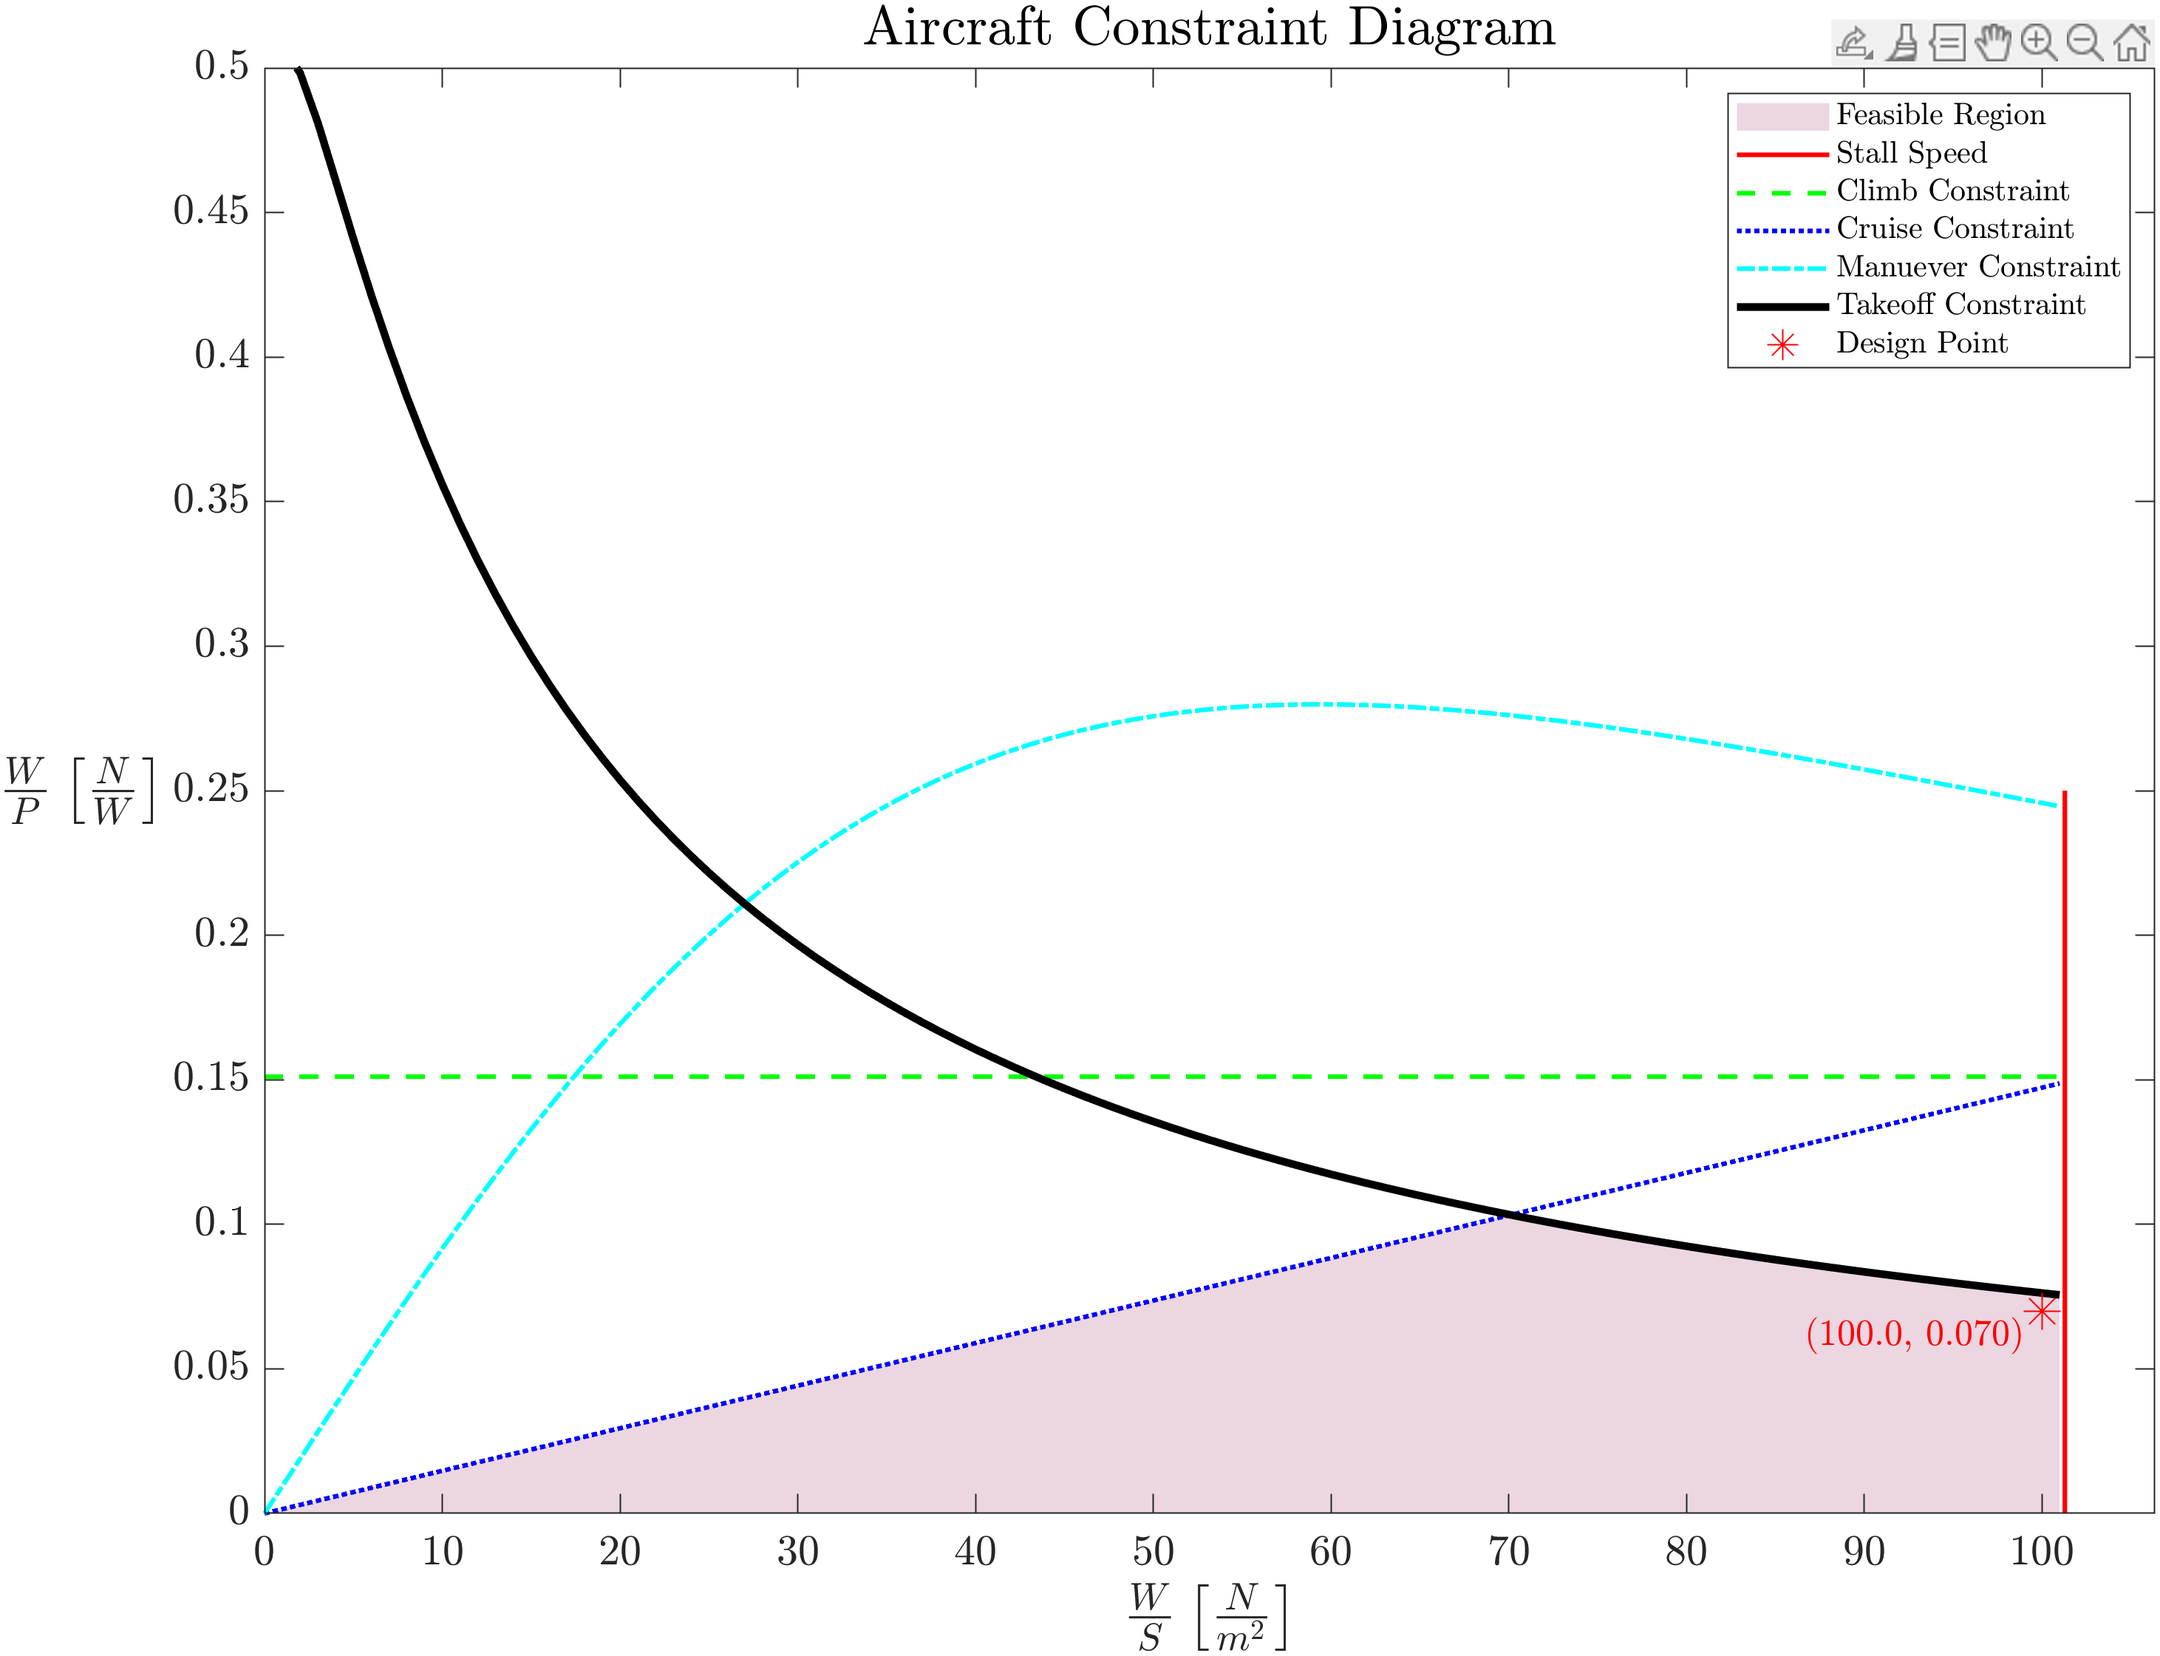
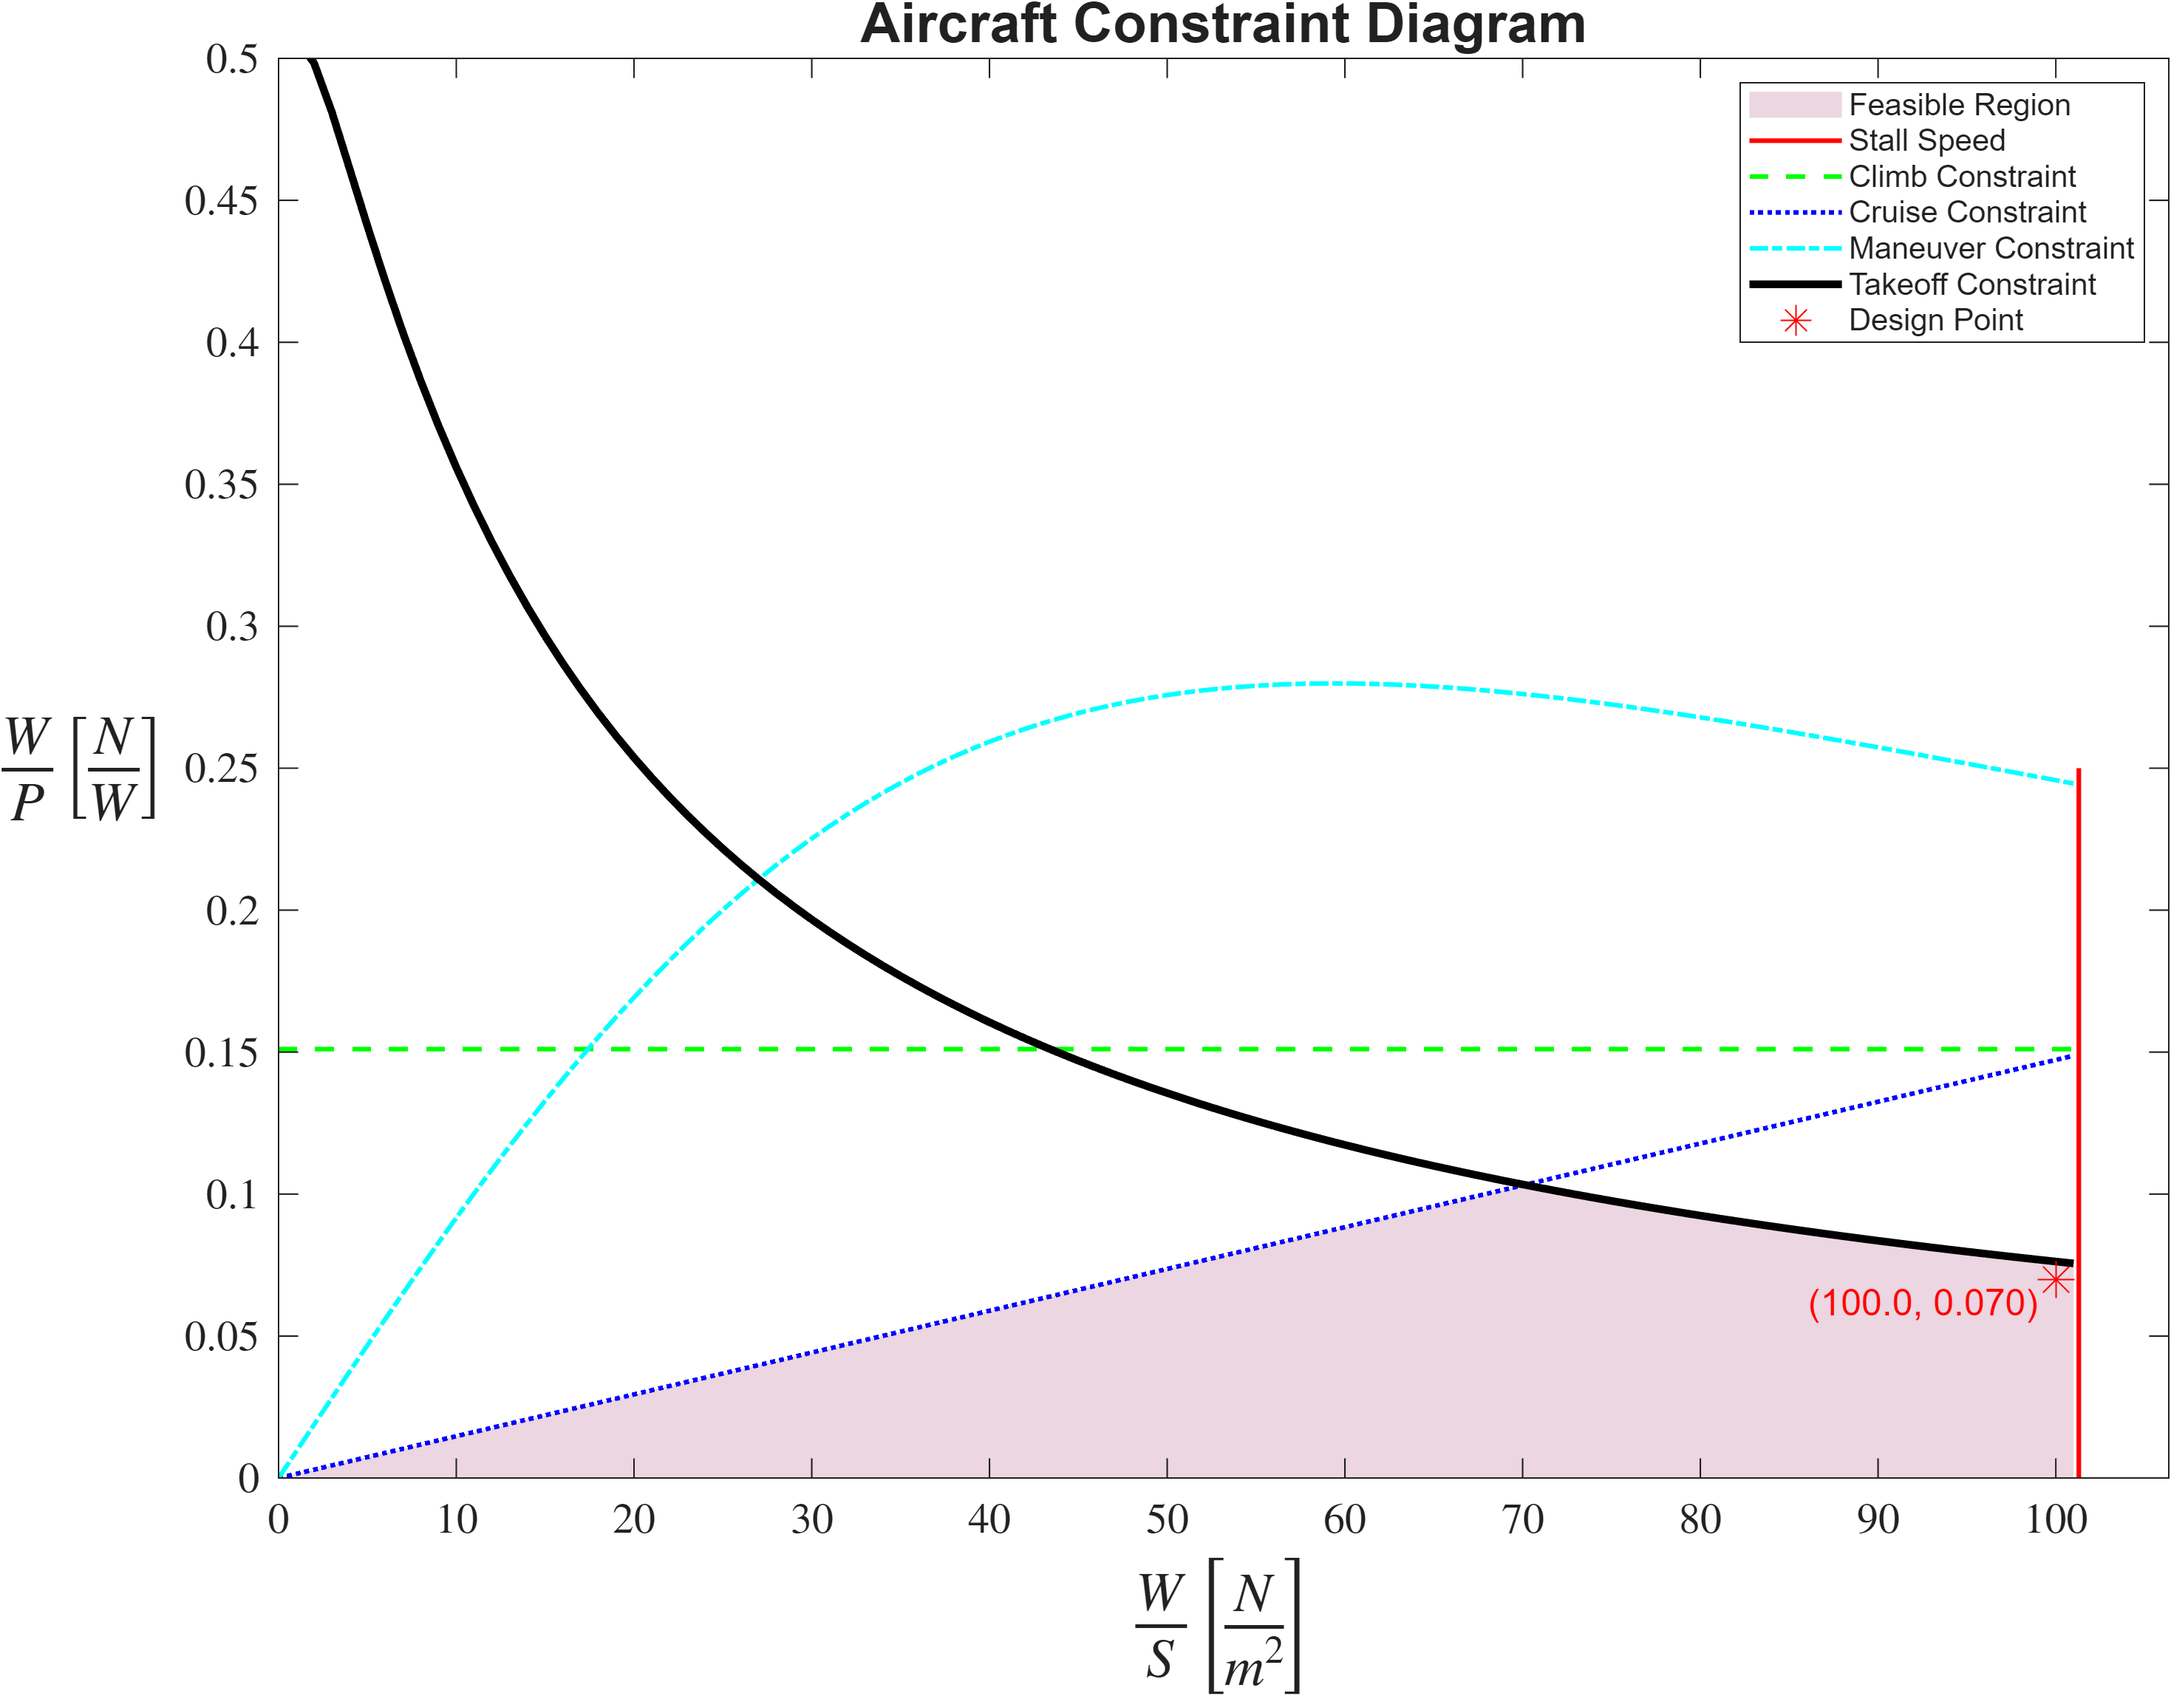
spelling error

diff --git a/InitialVehicleSizingConstraint.m b/InitialVehicleSizingConstraint.m
@@ -4,6 +4,8 @@
 % system parameters are all pulled from an Excel spreadsheet. See
 % 'SizingParams.xlsx' for more details:
 
+set(groot, 'defaultAxesTickLabelInterpreter','latex')
+
 % load the values from the excel sheet
 params = readcell("SizingParams.xlsx");
 
@@ -59,7 +61,7 @@ hold on;
 plot(W_S_max*ones(2,1),[0;0.25], 'r-',  'LineWidth', 1.5, 'DisplayName', 'Stall Speed');
 plot([0;W_S_max],W_P_climb*ones(2,1), 'g--', 'LineWidth', 1.5, 'DisplayName', 'Climb Constraint');
 plot(W_S,W_P_cruise, 'b:',  'LineWidth', 1.5, 'DisplayName', 'Cruise Constraint');
-plot(W_S,W_P_m, 'c-.', 'LineWidth', 1.5, 'DisplayName', 'Manuever Constraint');
+plot(W_S,W_P_m, 'c-.', 'LineWidth', 1.5, 'DisplayName', 'Maneuver Constraint');
 plot(W_S,W_P_TO, 'k-',  'LineWidth', 2.5, 'DisplayName', 'Takeoff Constraint');
 plot(data.W_S_design,data.W_P_design, 'r*', 'MarkerSize', 12, 'DisplayName', 'Design Point')
 text(data.W_S_design-1, data.W_P_design-.001, ...
@@ -70,8 +72,8 @@ text(data.W_S_design-1, data.W_P_design-.001, ...
 ylim([0, 0.50]);
 xlim([0, W_S_max*1.05]);
 set(gca, 'FontSize', 14);
-xlabel("$\frac{W}{S} \left[\frac{N}{m^2}\right]$", 'FontSize', 18)
-ylabel("$\frac{W}{P} \left[\frac{N}{W}\right]$", 'Rotation', 0, 'FontSize', 18)
+xlabel("$\frac{W}{S} \left[\frac{N}{m^2}\right]$", 'FontSize', 18, Interpreter='latex')
+ylabel("$\frac{W}{P} \left[\frac{N}{W}\right]$", 'Rotation', 0, 'FontSize', 18, Interpreter='latex')
 title('Aircraft Constraint Diagram', 'FontSize', 18)
 legend('Location','northeast', 'FontSize', 10)
 
